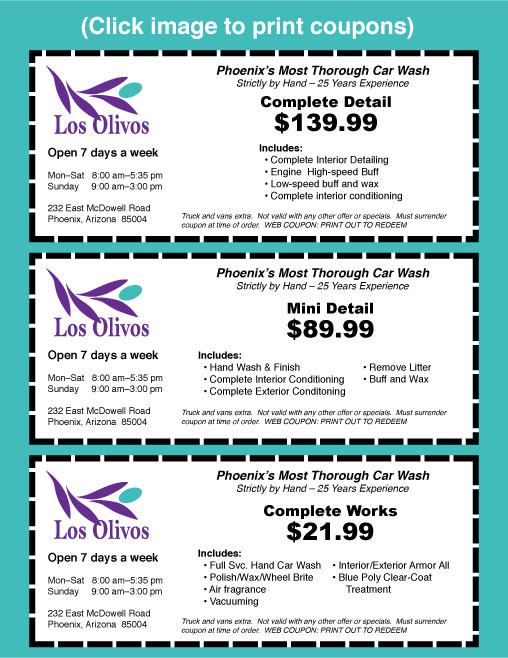
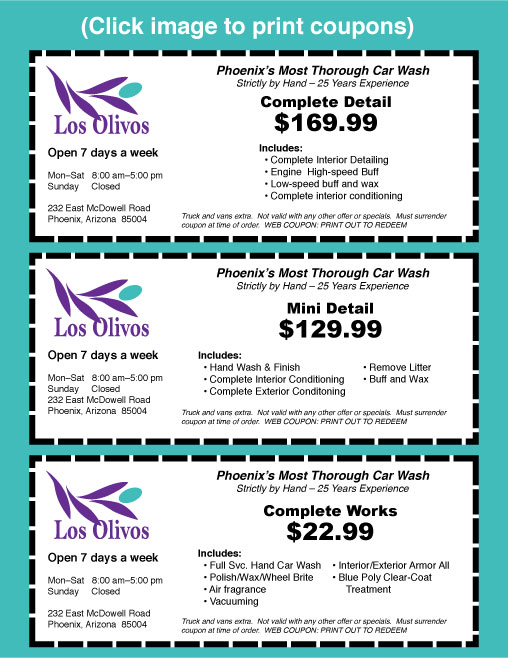
Pricing changes

diff --git a/resources/views/home/detailing.blade.php b/resources/views/home/detailing.blade.php
@@ -18,7 +18,7 @@
                 <div class="col-md-4">
                     <dl>
                         <dt>Complete Detailing</dt>
-                        <dd>$159.99</dd>
+                        <dd>$189.99</dd>
                     </dl>
 
                     <ul class="pricing">
@@ -36,7 +36,7 @@
                         <li>Apply protective dressing to engine compartment</li>
                     </ul>
 
-                    <p><em>Prices effective Sept. 1, 2014.  Prices subject to change without notice.  Prices may vary due to size and condition of vehicle.</em></p>
+                    <p><em>Prices effective Jan. 1, 2017.  Prices subject to change without notice.  Prices may vary due to size and condition of vehicle.</em></p>
 
                     <p><em>Oxidation, water spots, overspray extra.</em></p>
 
@@ -46,7 +46,7 @@
                 <div class="col-md-4">
                     <dl>
                         <dt>Interior Detailing</dt>
-                        <dd>$85.00</dd>
+                        <dd>$95.00</dd>
                     </dl>
 
                     <ul class="pricing">
@@ -63,7 +63,7 @@
 
                     <dl>
                         <dt>Exterior Detail</dt>
-                        <dd>$100.00</dd>
+                        <dd>$129.99</dd>
                     </dl>
 
                     <ul class="pricing">
@@ -84,37 +84,37 @@
                         <li>
                             <dl>
                                 <dt>Steam clean engine</dt>
-                                <dd>$39.99</dd>
+                                <dd>$49.99</dd>
                             </dl>
                         </li>
                         <li>
                             <dl>
                                 <dt>Shampoo seats</dt>
-                                <dd>$29.99</dd>
+                                <dd>$39.99</dd>
                             </dl>
                         </li>
                         <li>
                             <dl>
                                 <dt>Clean/condition leather seats</dt>
-                                <dd>$29.99</dd>
+                                <dd>$39.99</dd>
                             </dl>
                         </li>
                         <li>
                             <dl>
                                 <dt>Shampoo carpets</dt>
-                                <dd>$29.99</dd>
+                                <dd>$39.99</dd>
                             </dl>
                         </li>
                         <li>
                             <dl>
                                 <dt>Shampoo mats (all four) </dt>
-                                <dd>$7.99</dd>
+                                <dd>$8.99</dd>
                             </dl>
                         </li>
                         <li>
                             <dl>
                                 <dt>Clean and dress vinyl top</dt>
-                                <dd>$29.99</dd>
+                                <dd>$39.99</dd>
                             </dl>
                         </li>
                         <li>
@@ -132,13 +132,13 @@
                         <li>
                             <dl>
                                 <dt>Creme Pro (interior) </dt>
-                                <dd>$25.00</dd>
+                                <dd>$30.00</dd>
                             </dl>
                         </li>
                         <li>
 														<dl>
 																<dt>Basic Motorcycle</dt>
-																<dd>Starts at $25</dd>
+																<dd>Starts at $30</dd>
 														</dl>
 														<dl>
 																<dt>Motorcycle Detailing</dt>

diff --git a/resources/views/home/a-la-carte.blade.php b/resources/views/home/a-la-carte.blade.php
@@ -21,19 +21,19 @@
                     <div class="col-md-6 text">
                         <dl>
                             <dt>Full service hand car wash</dt>
-                            <dd>$12.99</dd>
+                            <dd>$13.99</dd>
                         </dl>
                         <dl>
                             <dt>Blue Poly-Clear Coat treatment</dt>
-                            <dd>$5.00</dd>
+                            <dd>$6.00</dd>
                         </dl>
                         <dl>
                             <dt>Air freshener</dt>
-                            <dd>$2.00</dd>
+                            <dd>$3.00</dd>
                         </dl>
                         <dl>
                             <dt>Spray wax</dt>
-                            <dd>$5.00</dd>
+                            <dd>$6.00</dd>
                         </dl>
                         <dl>
                             <dt>Polish rims (each)</dt>
@@ -41,7 +41,7 @@
                         </dl>
                         <dl>
                             <dt>Plastic mats cleaned</dt>
-                            <dd>$3.00</dd>
+                            <dd>$4.00</dd>
                         </dl>
                         <dl>
                             <dt>Exterior wash only</dt>
@@ -51,19 +51,19 @@
                     <div class="col-md-6">
                         <dl>
                             <dt>Black Magic tires</dt>
-                            <dd>$3.00</dd>
+                            <dd>$4.00</dd>
                         </dl>
                         <dl>
                             <dt>Black Magic interior</dt>
-                            <dd>$7.00</dd>
+                            <dd>$8.00</dd>
                         </dl>
                         <dl>
                             <dt>Black Magic exterior</dt>
-                            <dd>$6.00</dd>
+                            <dd>$7.00</dd>
                         </dl>
                         <dl>
                             <dt>Black Magic complete</dt>
-                            <dd>$13.00</dd>
+                            <dd>$14.00</dd>
                         </dl>
                         <dl>
                             <dt>Back to Black (Maguiar's Exterior)</dt>
@@ -71,13 +71,13 @@
                         </dl>
                         <dl>
                             <dt>Shampoo mats (4)</dt>
-                            <dd>$7.99</dd>
+                            <dd>$8.99</dd>
                         </dl>
                         <dl>
                             <dt>Cream Pro conditioning</dt>
-                            <dd>$5-$25*</dd>
+                            <dd>$5-$30*</dd>
                         </dl>
-                        <p><em>Prices effective Aug, 1, 2014. Prices may vary due to size or condition of vehicle.</em></p>
+                        <p><em>Prices effective Jan, 1, 2017. Prices may vary due to size or condition of vehicle.</em></p>
 
                         <p><em>*Depends on vehicle size</em></p>
                     </div>

diff --git a/resources/views/home/specials.blade.php b/resources/views/home/specials.blade.php
@@ -26,11 +26,11 @@
                     </div>
                     <div class="col-md-6 text">
                         <p>Three special price packages are available if you print these coupons out by clicking on the image.</p>
-                        <p>The Complete Detailing package is offered for $139.99, a special only available with this coupon.  You save $20 on an interior detailing, an engine cleaning and an exterior buff. This package is usually valued at $159.00</p>
+                        <p>The Complete Detailing package is offered for $169.99, a special only available with this coupon.  You save $20 on an interior detailing, an engine cleaning and an exterior buff.</p>
 
-                        <p>The Mini Detail is $89.99. You save $10.</p>
+                        <p>The Mini Detail is $129.99. You save $10.</p>
 
-                        <p> The Complete Works at $21.99 saves you $13 and includes: vacuuming, air freshener, complete interior/exterior dressing, spray wax and spray Poly Clear-Coat treatment, and washing the mats.</p>
+                        <p> The Complete Works at $22.99 saves you $13 and includes: vacuuming, air freshener, complete interior/exterior dressing, spray wax and spray Poly Clear-Coat treatment, and washing the mats.</p>
                     </div>
                 </div>
             </div>

diff --git a/resources/views/home/combinations.blade.php b/resources/views/home/combinations.blade.php
@@ -23,7 +23,7 @@
                     <div class="col-md-6 text">
                         <dl>
                             <dt>The Works</dt>
-                            <dd>$17.99</dd>
+                            <dd>$18.99</dd>
                         </dl>
 
                         <ul class="pricing">
@@ -63,7 +63,7 @@
                     <div class="col-md-6">
                         <dl>
                             <dt>Complete Works</dt>
-                            <dd>$21.99</dd>
+                            <dd>$24.99</dd>
                         </dl>
 
                         <ul class="pricing">
@@ -75,12 +75,11 @@
                             <li>Wheel Brite</li>
                             <lI>Rubber Mats</lI>
                             <li>Vacuum and wipe interior</li>
-                            <li>$26.99 Value (You Save $5.00)</li>
                         </ul>
 
                         <br />
 
-                        <p><em>Prices effective Aug. 1, 2014.  Prices subject to change without notice. Prices may vary due to size and condition of vehicle.</em></p>
+                        <p><em>Prices effective Jan. 1, 2017.  Prices subject to change without notice. Prices may vary due to size and condition of vehicle.</em></p>
 
                         <p><em>Vacuum extra.</em></p>
 

diff --git a/resources/views/partials/header.blade.php b/resources/views/partials/header.blade.php
@@ -58,8 +58,8 @@
                 <p>602.258.2822</p>
 
                 <p>Hours:<br />
-                    Mon-Sat  8:00 am – 5:25 pm<br />
-                    Sunday   9:00 am – 3:00 pm<br />
+                    Mon-Sat:  8:00 am – 5:00 pm<br />
+                    Sunday:  Closed<br />
                 </p>
             </div>
             <div class="col-xs-9 col-sm-9 col-md-9 get-clean">
